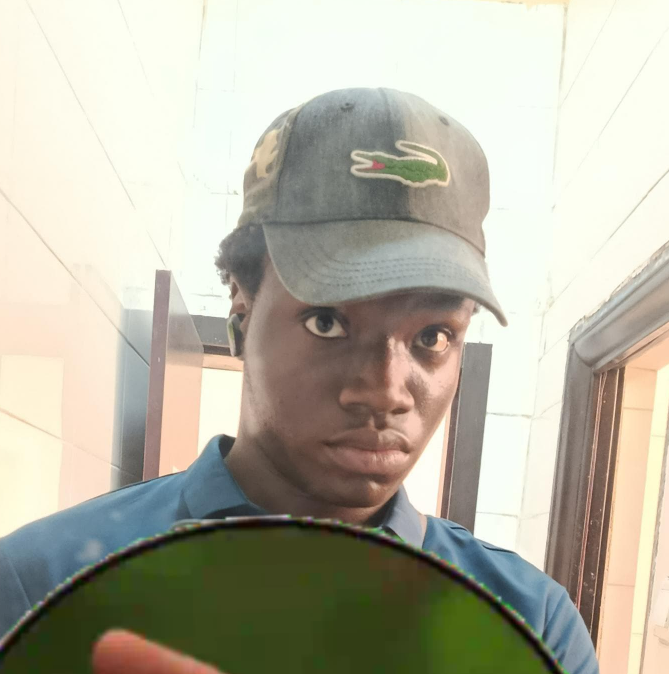
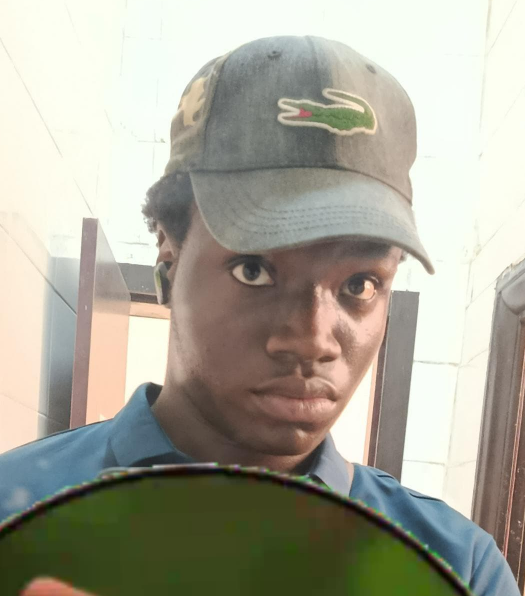
render fix

diff --git a/port-back/src/handlers/projects.rs b/port-back/src/handlers/projects.rs
@@ -16,7 +16,20 @@ pub struct PaginationQuery {
     pub limit: Option<i64>,
 }
 
-// Public routes
+// 🔧 Helper: Safe deserialization with logging
+fn parse_doc(doc: bson::Document) -> Result<ProjectResponse, StatusCode> {
+    match bson::from_document::<ProjectResponse>(doc.clone()) {
+        Ok(p) => Ok(p),
+        Err(e) => {
+            println!("❌ DESERIALIZATION ERROR: {:?}", e);
+            println!("❌ DOCUMENT: {:?}", doc);
+            Err(StatusCode::INTERNAL_SERVER_ERROR)
+        }
+    }
+}
+
+// ---------------- PUBLIC ----------------
+
 pub async fn get_projects(
     State(db): State<Database>,
     Query(pagination): Query<PaginationQuery>,
@@ -50,71 +63,42 @@ pub async fn get_projects(
     ];
 
     let cursor = collection.aggregate(pipeline).await
-        .map_err(|_| StatusCode::INTERNAL_SERVER_ERROR)?;
+        .map_err(|e| {
+            println!("❌ DB ERROR: {:?}", e);
+            StatusCode::INTERNAL_SERVER_ERROR
+        })?;
 
     let projects: Vec<ProjectResponse> = cursor
         .map(|doc_result| {
             match doc_result {
-                Ok(doc) => bson::from_document(doc).map_err(|_| StatusCode::INTERNAL_SERVER_ERROR),
-                Err(_) => Err(StatusCode::INTERNAL_SERVER_ERROR),
+                Ok(doc) => parse_doc(doc),
+                Err(e) => {
+                    println!("❌ CURSOR ERROR: {:?}", e);
+                    Err(StatusCode::INTERNAL_SERVER_ERROR)
+                }
             }
         })
         .try_collect()
         .await
-        .map_err(|_| StatusCode::INTERNAL_SERVER_ERROR)?;
+        .map_err(|e| {
+            println!("❌ COLLECT ERROR: {:?}", e);
+            StatusCode::INTERNAL_SERVER_ERROR
+        })?;
 
     Ok(Json(projects))
 }
 
-// Admin routes
+// ---------------- ADMIN ----------------
+
 pub async fn get_admin_projects(
     State(db): State<Database>,
     Query(pagination): Query<PaginationQuery>,
 ) -> Result<Json<Vec<ProjectResponse>>, StatusCode> {
-    let page = pagination.page.unwrap_or(1);
-    let limit = pagination.limit.unwrap_or(10);
-    let skip = (page - 1) * limit;
-
-    let collection = db.collection::<Project>("projects");
-
-    let pipeline = vec![
-        doc! { "$sort": { "created_at": -1 } },
-        doc! { "$skip": skip },
-        doc! { "$limit": limit },
-        doc! { "$project": {
-            "_id": 0,
-            "id": { "$toString": "$_id" },
-            "title": 1,
-            "description": 1,
-            "long_description": 1,
-            "technologies": 1,
-            "project_types": 1,
-            "languages": 1,
-            "github_url": 1,
-            "live_url": 1,
-            "image_url": 1,
-            "featured": 1,
-            "created_at": 1,
-            "updated_at": 1
-        }}
-    ];
-
-    let cursor = collection.aggregate(pipeline).await
-        .map_err(|_| StatusCode::INTERNAL_SERVER_ERROR)?;
-
-    let projects: Vec<ProjectResponse> = cursor
-        .map(|doc_result| {
-            match doc_result {
-                Ok(doc) => bson::from_document(doc).map_err(|_| StatusCode::INTERNAL_SERVER_ERROR),
-                Err(_) => Err(StatusCode::INTERNAL_SERVER_ERROR),
-            }
-        })
-        .try_collect()
-        .await
-        .map_err(|_| StatusCode::INTERNAL_SERVER_ERROR)?;
-
-    Ok(Json(projects))
+    // SAME as public — just reused
+    get_projects(State(db), Query(pagination)).await
 }
+
+// ---------------- CREATE ----------------
 
 pub async fn create_project(
     State(db): State<Database>,
@@ -123,6 +107,7 @@ pub async fn create_project(
     let collection = db.collection::<Project>("projects");
 
     let now = chrono::Utc::now();
+
     let project = Project {
         id: None,
         title: request.title,
@@ -139,15 +124,14 @@ pub async fn create_project(
         updated_at: now,
     };
 
-    let result = collection.insert_one(&project).await.map_err(|err| {
-        eprintln!("Failed to insert project: {:?}", err);
+    let result = collection.insert_one(&project).await.map_err(|e| {
+        println!("❌ INSERT ERROR: {:?}", e);
         StatusCode::INTERNAL_SERVER_ERROR
     })?;
 
-    let id = match result.inserted_id {
-        bson::Bson::ObjectId(oid) => oid.to_hex(),
-        other => other.to_string(),
-    };
+    let id = result.inserted_id.as_object_id()
+        .map(|id| id.to_hex())
+        .unwrap_or_default();
 
     let response = ProjectResponse {
         id,
@@ -168,6 +152,8 @@ pub async fn create_project(
     Ok(Json(response))
 }
 
+// ---------------- UPDATE ----------------
+
 pub async fn update_project(
     State(db): State<Database>,
     Path(id): Path<String>,
@@ -178,49 +164,33 @@ pub async fn update_project(
     let object_id = ObjectId::parse_str(&id)
         .map_err(|_| StatusCode::BAD_REQUEST)?;
 
-    let mut update_doc = mongodb::bson::doc! { "updated_at": chrono::Utc::now().timestamp_millis() as i64 };
+    let mut update_doc = doc! {
+        "updated_at": chrono::Utc::now()
+    };
 
-    if let Some(title) = request.title {
-        update_doc.insert("title", title);
-    }
-    if let Some(description) = request.description {
-        update_doc.insert("description", description);
-    }
-    if let Some(long_description) = request.long_description {
-        update_doc.insert("long_description", long_description);
-    }
-    if let Some(technologies) = request.technologies {
-        update_doc.insert("technologies", technologies);
-    }
-    if let Some(project_types) = request.project_types {
-        update_doc.insert("project_types", project_types);
-    }
-    if let Some(languages) = request.languages {
-        update_doc.insert("languages", languages);
-    }
-    if let Some(github_url) = request.github_url {
-        update_doc.insert("github_url", github_url);
-    }
-    if let Some(live_url) = request.live_url {
-        update_doc.insert("live_url", live_url);
-    }
-    if let Some(image_url) = request.image_url {
-        update_doc.insert("image_url", image_url);
-    }
-    if let Some(featured) = request.featured {
-        update_doc.insert("featured", featured);
-    }
+    if let Some(v) = request.title { update_doc.insert("title", v); }
+    if let Some(v) = request.description { update_doc.insert("description", v); }
+    if let Some(v) = request.long_description { update_doc.insert("long_description", v); }
+    if let Some(v) = request.technologies { update_doc.insert("technologies", v); }
+    if let Some(v) = request.project_types { update_doc.insert("project_types", v); }
+    if let Some(v) = request.languages { update_doc.insert("languages", v); }
+    if let Some(v) = request.github_url { update_doc.insert("github_url", v); }
+    if let Some(v) = request.live_url { update_doc.insert("live_url", v); }
+    if let Some(v) = request.image_url { update_doc.insert("image_url", v); }
+    if let Some(v) = request.featured { update_doc.insert("featured", v); }
 
-    let update = doc! { "$set": update_doc };
-
-    let result = collection.update_one(doc! { "_id": object_id }, update).await
-        .map_err(|_| StatusCode::INTERNAL_SERVER_ERROR)?;
+    let result = collection.update_one(doc! { "_id": object_id }, doc! { "$set": update_doc })
+        .await
+        .map_err(|e| {
+            println!("❌ UPDATE ERROR: {:?}", e);
+            StatusCode::INTERNAL_SERVER_ERROR
+        })?;
 
     if result.modified_count == 0 {
         return Err(StatusCode::NOT_FOUND);
     }
 
-    // Fetch updated project
+    // Fetch updated
     let pipeline = vec![
         doc! { "$match": { "_id": object_id } },
         doc! { "$project": {
@@ -242,22 +212,31 @@ pub async fn update_project(
     ];
 
     let cursor = collection.aggregate(pipeline).await
-        .map_err(|_| StatusCode::INTERNAL_SERVER_ERROR)?;
+        .map_err(|e| {
+            println!("❌ FETCH ERROR: {:?}", e);
+            StatusCode::INTERNAL_SERVER_ERROR
+        })?;
 
     let projects: Vec<ProjectResponse> = cursor
-        .map(|doc_result| {
-            match doc_result {
-                Ok(doc) => bson::from_document(doc).map_err(|_| StatusCode::INTERNAL_SERVER_ERROR),
-                Err(_) => Err(StatusCode::INTERNAL_SERVER_ERROR),
+        .map(|doc_result| match doc_result {
+            Ok(doc) => parse_doc(doc),
+            Err(e) => {
+                println!("❌ CURSOR ERROR: {:?}", e);
+                Err(StatusCode::INTERNAL_SERVER_ERROR)
             }
         })
         .try_collect()
         .await
-        .map_err(|_| StatusCode::INTERNAL_SERVER_ERROR)?;
+        .map_err(|e| {
+            println!("❌ COLLECT ERROR: {:?}", e);
+            StatusCode::INTERNAL_SERVER_ERROR
+        })?;
 
     let project = projects.into_iter().next().ok_or(StatusCode::NOT_FOUND)?;
     Ok(Json(project))
 }
+
+// ---------------- DELETE ----------------
 
 pub async fn delete_project(
     State(db): State<Database>,
@@ -269,7 +248,10 @@ pub async fn delete_project(
         .map_err(|_| StatusCode::BAD_REQUEST)?;
 
     let result = collection.delete_one(doc! { "_id": object_id }).await
-        .map_err(|_| StatusCode::INTERNAL_SERVER_ERROR)?;
+        .map_err(|e| {
+            println!("❌ DELETE ERROR: {:?}", e);
+            StatusCode::INTERNAL_SERVER_ERROR
+        })?;
 
     if result.deleted_count == 0 {
         return Err(StatusCode::NOT_FOUND);

diff --git a/port-back/src/models.rs b/port-back/src/models.rs
@@ -124,9 +124,9 @@ pub struct ProjectResponse {
     #[serde(default, deserialize_with = "null_as_default")]
     pub technologies: Vec<String>,
     #[serde(default, deserialize_with = "null_as_default")]
-    pub project_types: Vec<String>,
+    pub project_types: Option<Vec<String>>
     #[serde(default, deserialize_with = "null_as_default")]
-    pub languages: Vec<String>,
+    pub languages: Option<Vec<String>>,
     pub github_url: Option<String>,
     pub live_url: Option<String>,
     pub image_url: Option<String>,
